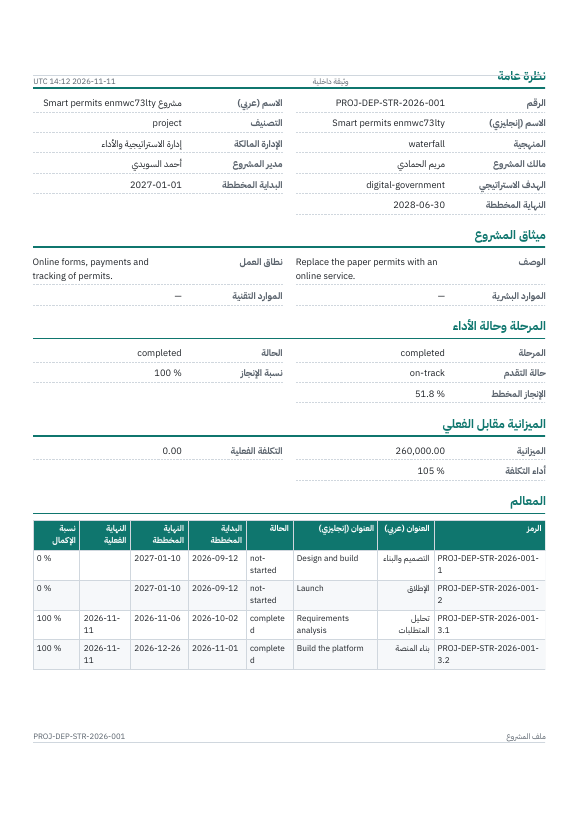
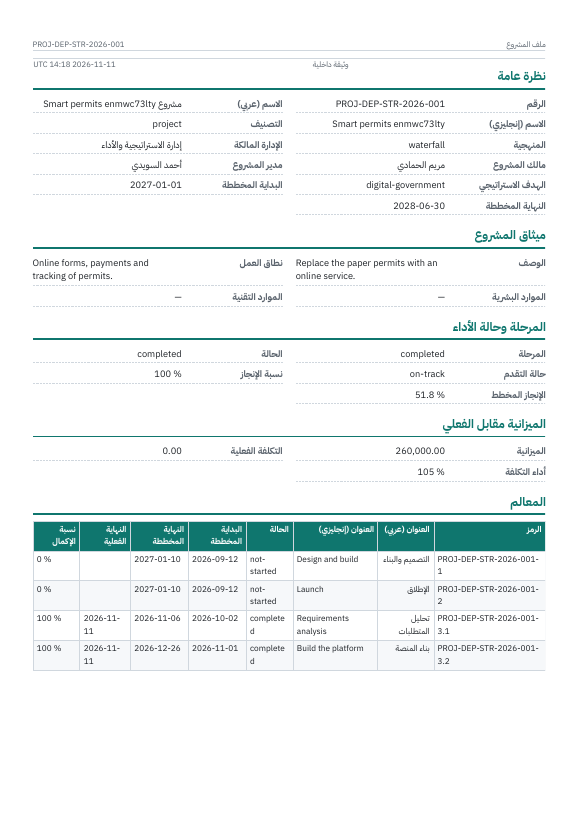
fix(reporting): dossier PDF footer as a line at the end of each record; ADR 0185 notes the PDF / Word difference
Claude-Session: https://claude.ai/code/session_01WuX2zQXSqJbmQZYVMeHNJz

diff --git a/src/Platform/Strategy.Platform.Reporting/Dossiers/DossierHtml.cs b/src/Platform/Strategy.Platform.Reporting/Dossiers/DossierHtml.cs
@@ -11,8 +11,8 @@ namespace Strategy.Platform.Reporting.Dossiers;
 public sealed record DossierBranding(string? OrganisationAr, string? OrganisationEn, string PrimaryColor, DateTimeOffset GeneratedAt);
 
 /// <summary>
-/// HTML of one or more dossiers for Gotenberg (ADR 0185): cover page, header line, repeated page footer (fixed elements repeat on every printed
-/// page), sections laid out in the language's direction, SVG charts, Gantt and matrix. Every text is encoded; no script, no external resource.
+/// HTML of one or more dossiers for Gotenberg (ADR 0185): cover page, header line under the cover and a footer line at the end of each record (Chromium's fixed
+/// elements overlap page content), sections laid out in the language's direction, SVG charts, Gantt and matrix. Every text is encoded; no script, no external resource.
 /// Bilingual: Arabic and English labels / values side by side.
 /// </summary>
 public static partial class DossierHtml
@@ -34,7 +34,7 @@ public static partial class DossierHtml
             .Append(PdfFonts.FontFaceCss())
             .Append("@page{size:A4;margin:14mm 12mm 18mm}body{font-family:'").Append(PdfFonts.Family).Append("',sans-serif;font-size:9.5pt;color:#1b1f24;margin:0}")
             .Append(".hdr{font-size:8pt;color:#57606a;border-bottom:1px solid #d0d7de;display:flex;justify-content:space-between;margin-bottom:6mm}")
-            .Append(".ftr{position:fixed;bottom:-12mm;inset-inline:0;font-size:8pt;color:#57606a;border-top:1px solid #d0d7de;display:flex;justify-content:space-between}")
+            .Append(".ftr{font-size:8pt;color:#57606a;border-top:1px solid #d0d7de;display:flex;justify-content:space-between;margin-top:8mm;padding-top:2mm}")
             .Append(".cover{height:230mm;display:flex;flex-direction:column;justify-content:center;align-items:center;text-align:center;page-break-after:always}")
             .Append(".cover h1{font-size:24pt;color:").Append(color).Append(";margin:0 0 8px}.cover .sub{font-size:14pt;margin:4px 0}.cover .meta{color:#57606a;margin-top:18px}")
             .Append(".rec{page-break-before:always}.rec:first-of-type{page-break-before:auto}")
@@ -62,11 +62,12 @@ public static partial class DossierHtml
         string T(string? arText, string? enText) => bilingual ? $"{arText} — {enText}" : ar ? arText ?? enText ?? string.Empty : enText ?? arText ?? string.Empty;
         html.Append("<section class=\"rec\">");
 
-        // Header line under the cover (a block: fixed elements at the top overlap the first line of every page in Chromium); the footer repeats.
+        // Header line under the cover and footer line at the end (blocks: fixed elements overlap page content in Chromium).
         var header = new StringBuilder();
         header.Append("<div class=\"hdr\"><span>").Append(E(T(d.HeaderAr ?? doc.TemplateLabelAr, d.HeaderEn ?? doc.TemplateLabelEn))).Append("</span><span>")
             .Append(E(doc.Number)).Append("</span></div>");
-        html.Append("<div class=\"ftr\"><span>").Append(E(T(branding.OrganisationAr, branding.OrganisationEn))).Append("</span><span>").Append(E(T(d.FooterAr, d.FooterEn)))
+        var footer = new StringBuilder();
+        footer.Append("<div class=\"ftr\"><span>").Append(E(T(branding.OrganisationAr, branding.OrganisationEn))).Append("</span><span>").Append(E(T(d.FooterAr, d.FooterEn)))
             .Append("</span><span>").Append(E(branding.GeneratedAt.UtcDateTime.ToString("yyyy-MM-dd HH:mm 'UTC'", CultureInfo.InvariantCulture))).Append("</span></div>");
         if (d.Cover.Show)
         {
@@ -100,7 +101,7 @@ public static partial class DossierHtml
             html.Append("</div>");
         }
 
-        html.Append("</section>");
+        html.Append(footer).Append("</section>");
     }
 
     private static void Block(StringBuilder html, DossierBlock block, string language, string color)

diff --git a/docs/phase-summaries/phase-21.md b/docs/phase-summaries/phase-21.md
@@ -15,7 +15,7 @@ Requirements: [`docs/SPEC-ADDENDUM.md`](../SPEC-ADDENDUM.md) §E (E1–E3), SPEC
 | **Report builder** | Columns from every object; filters with **relative dates** (today … last / next N days, weeks, months, quarters / years by fiscal start); grouping **up to 3 levels with subtotals** and grand total; **summary formulas** sum / avg / min / max; **charts** bar, stacked bar, line, pie, donut (server-computed, ECharts on screen — `pieOption` added to the chart kit —, SVG in PDF); **conditional highlighting**; exports **Excel** (group lines, RTL sheet, chart data sheet), **PDF** (chart + grouped table, Gotenberg) and **CSV** (UTF-8 BOM, formula guard). Phase 17 reports open in the new builder and keep running unchanged | §5, 0182 |
 | **My reports and folders** | Every user saves private reports and private folders (`reporting.report.run`); shared folders, sharing and publishing need `reporting.report.share` (Report author). Reports home: My reports / Shared with me / folders, folder sharing to users, roles, units | §5, 0183 |
 | **Record dossiers** | `reporting.dossier_template`; **Settings → Dossier templates** designer: record type, language (ar / en / bilingual), cover, page header / footer, ordered sections — fields, text, related list (path of up to 3 relationships, filters, sort), chart, KPI trend, Gantt, risk matrix, approval history, attachments —, conditions on record fields, page breaks; preview as PDF or Word. **7 seeded templates** (project dossier with 18 sections, KPI card dossier, risk profile, audit report pack, team evaluation report, benchmark study report, CAP source report). Data for every section through the report engine as the reader; sections bound to something the reader may not read are **omitted** | §6, 0184 |
-| **PDF and Word** | One `DossierDocument` → HTML for Gotenberg (Arabic fonts, RTL, fixed header / footer on each page, cover, SVG charts / Gantt / matrix) and **Word with DocumentFormat.OpenXml** (MIT, already in the solution): heading styles, header / footer parts, `bidi` / `bidiVisual` / `rtl` for Arabic, charts / Gantt / matrix as shaded native tables | 0185 |
+| **PDF and Word** | One `DossierDocument` → HTML for Gotenberg (Arabic fonts, RTL, header and footer lines per record, cover, SVG charts / Gantt / matrix) and **Word with DocumentFormat.OpenXml** (MIT, already in the solution): heading styles, header / footer parts, `bidi` / `bidiVisual` / `rtl` for Arabic, charts / Gantt / matrix as shaded native tables | 0185 |
 | **One record, a filtered set, schedules** | Dossier action on the project page; **Reports → Dossiers**: one record (picker), a filtered set → **one merged PDF** or **ZIP** (PDF / Word per record, named by record number), **monthly schedule** with recipients by record field (e.g. each project manager) or users / roles / units, built as each recipient, idempotent per period | 0186 |
 
 ## Requested tests

diff --git a/docs/decisions/0185-dossier-pdf-and-word-rendering.md b/docs/decisions/0185-dossier-pdf-and-word-rendering.md
@@ -4,8 +4,9 @@
 - **Context:** E3 asks for PDF and Word in Arabic, English or bilingual. CLAUDE.md §4.3 allows MIT / Apache libraries only.
 
 ## Decision
-- One `DossierDocument` model per record → **HTML** (encoded, no script, embedded Arabic fonts, `dir` per language, CSS page header /
-  footer, SVG charts, Gantt and matrix) rendered by **Gotenberg** (as all PDFs, ADR 0096); merged PDFs are one HTML with a page break per
+- One `DossierDocument` model per record → **HTML** (encoded, no script, embedded Arabic fonts, `dir` per language, the template's header
+  line under the cover and footer line at the end of each record — Chromium's fixed-position elements overlapped page content, so they are
+  not repeated per page in PDF; Word repeats them as real header / footer parts —, SVG charts, Gantt and matrix) rendered by **Gotenberg** (as all PDFs, ADR 0096); merged PDFs are one HTML with a page break per
   record (one call).
 - **Word** with **DocumentFormat.OpenXml 3.x** (MIT; already in central package management): paragraphs and tables with `bidi` /
   `bidiVisual` and `rtl` runs for Arabic, heading styles, header / footer, cover page. Charts, Gantt and the matrix are written as native
